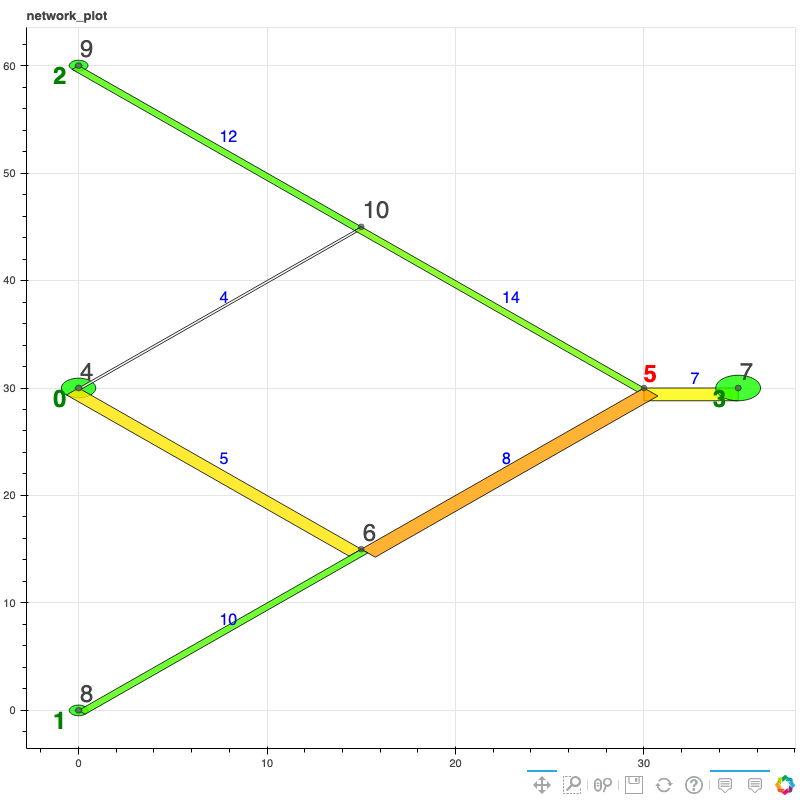
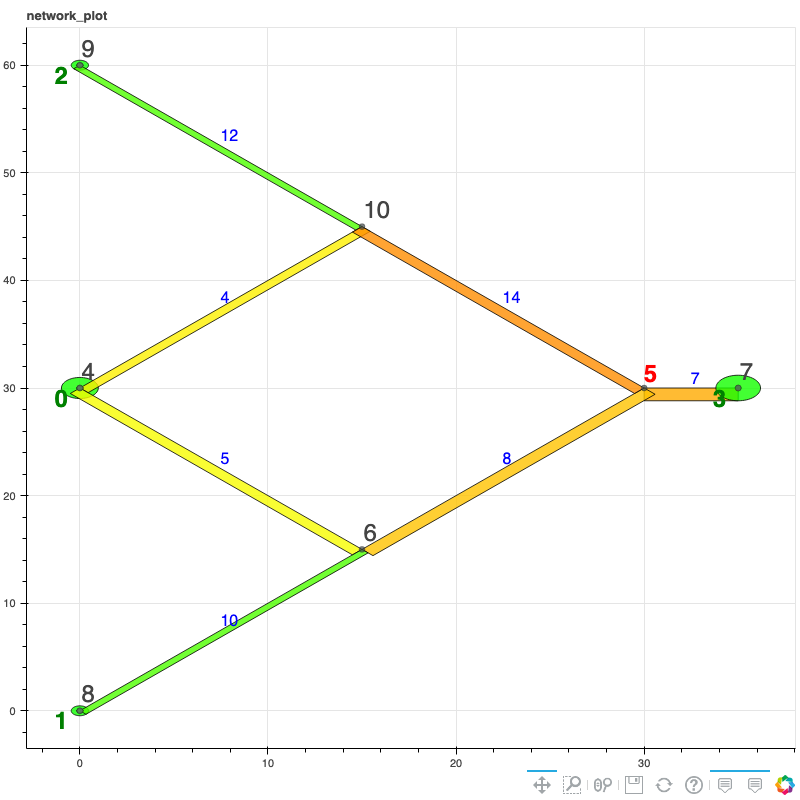
bug fix + network summary additions

diff --git a/ownCode/network_summary.py b/ownCode/network_summary.py
@@ -2,6 +2,7 @@ import pathlib
 from PIL import Image, ImageDraw, ImageFont
 import numpy as np
 from html2image import Html2Image
+from greenTimes import get_link_delay
 #install opencv-python for this (via pip)
 import cv2
 import os
@@ -53,7 +54,7 @@ def demand_summary(O_or_D, OD_flow, signalized_nodes):
 
     return string
 
-def result_summary(result,greens, capacities, non_connectors,safety_loops, first_greens):
+def result_summary(result,greens, capacities, non_connectors,safety_loops, first_greens, ff_tts, method):
     step = 0
     string = '\nSummary of the results:\n\n'
     string0 = '- The link first green times = '
@@ -61,15 +62,20 @@ def result_summary(result,greens, capacities, non_connectors,safety_loops, first
     string2 = '- The link costs = '
     string3 = '- The link green times = '
     string4 = '- The link capacities = '
+
+    string4b = '- The link dos = ' if method == 'equisaturation' else '- The link pressure = '
     string5bis = ' (converged)' if safety_loops != 100 else ' (non-converged)'
     string5 = f'- The amount of iterations needed = {safety_loops}' + string5bis
-    for idx, (flow, cost, cap) in enumerate(zip(result.flows, result.link_costs, capacities)):
+    for idx, (flow, cost, cap) in enumerate(zip(result.flows, result.link_costs, capacities,)):
         if idx in non_connectors:
             string0 += '({}, {}), '.format(idx,round(first_greens[idx],2))
             string1 += '({}, {}), '.format(idx,round(flow,2)) 
             string2 += '({}, {}), '.format(idx,round(cost,2))        
             string3 += '({}, {}), '.format(idx,round(greens[idx],2))
             string4 += '({}, {}), '.format(idx,round(cap,2))
+            if method == 'equisaturation': string4b += '({}, {}), '.format(idx,round((result.flows[idx]/(greens[idx]*capacities[idx])),4))
+            else: string4b += '({}, {}), '.format(idx,round(cap*get_link_delay(flow,cap,ff_tts[idx],greens[idx]),4))
+            
             step+=1
 
             if (step)%10 == 0:
@@ -78,9 +84,11 @@ def result_summary(result,greens, capacities, non_connectors,safety_loops, first
                 string2 += '\n                          '
                 string3 += '\n                                    '
                 string4 += '\n                                 '
+                string4b += '\n                                 '
     string0 += '\n\n'
     string1 += '\n\n'
     string2 += '\n\n'
     string3 += '\n\n'
     string4 += '\n\n'
-    return string+string0+string1+string2+string3+string4+string5
+    string4b += '\n\n'
+    return string+string0+string1+string2+string3+string4+string4b+string5

diff --git a/ownCode/main.py b/ownCode/main.py
@@ -136,7 +136,7 @@ def main(network_type, methodCost,methodGreen, greenDistribution, flow):
     print('\nSTART THE LOOP\n')
         #initialise parameters and variables
     delta = 10**-4
-    maxLoops = 100
+    maxLoops = 200
     safety_loop = 0
     gap = 1
     prev_flow = np.zeros(len(result.flows))
@@ -172,9 +172,9 @@ def main(network_type, methodCost,methodGreen, greenDistribution, flow):
         summary_string = 'SUMMARY: cost method = {}, heuristic = {}'.format(methodCost, methodGreen)
         summary_string += demand_summary(O_or_D[network_type], flow,signalized_nodes[network_type] )
         #demand = sum([flow for (_,_,flow) in OD_flow[network_type]])
-        result_summary_string = result_summary(result,greens,assignment.internal_network.links.capacity, non_connectors,safety_loop, firstGreens)
+        result_summary_string = result_summary(result,greens,assignment.internal_network.links.capacity, non_connectors,safety_loop, firstGreens, ff_tt, methodGreen)
         create_summary(listOfPlots, summary_string, result_summary_string, methodCost, methodGreen, network_type, str(flow), greenDistribution)
 
 
-main('twoMerge', 'WebsterTwoTerm', 'P0', '20-80', [(0,3,80),(1,3,20),(2,3,20)] )        
+main('twoMerge', 'bpr', 'equisaturation', '20-80', [(0,3,120),(1,3,20),(2,3,20)] )        
 #main_loop()

diff --git a/ownCode/greenTimes.py b/ownCode/greenTimes.py
@@ -79,6 +79,7 @@ def msa_green_times(caps, flows, initial_greens, ff_tts, method, link_ids):
         #apply the msa step
         newGreens = [((1 / msa_step) * g_aon) + (((msa_step - 1) / msa_step) * g) for g_aon, g in zip(green_time_aon, greens)]
         newGreens = safety_greens(newGreens)
+        
         def check_for_equality(list):
             equal = True
             for i in range(len(list)-1):
@@ -98,7 +99,7 @@ def msa_green_times(caps, flows, initial_greens, ff_tts, method, link_ids):
     print('MSA Green convergence: {}'.format(converged_reason))
     result_greens = {}
     for i in range(len(greens)):
-        result_greens[link_ids[i]] = greens[i]
+        result_greens[link_ids[i]] = previous_greens[i]
 
     return result_greens
 

diff --git a/ownCode/cost_functions.py b/ownCode/cost_functions.py
@@ -47,7 +47,6 @@ def __webster_two_term_green_single(flow, capacity, ff_tt, g_time):
         term1 = (cycle_time*(1-g_time)**2)/(1-g_time*dos)
         term2 = (dos**2)/(capacity*g_time*dos*(1-dos))
         cost = ff_tt + (9/20)*(term1+term2)
-    print(f'for passage with flow = {flow}, fft = {ff_tt}, capacity = {capacity}, g_time = {g_time}, and dos = {dos}, the cost = {cost}')
     return cost
 
 
